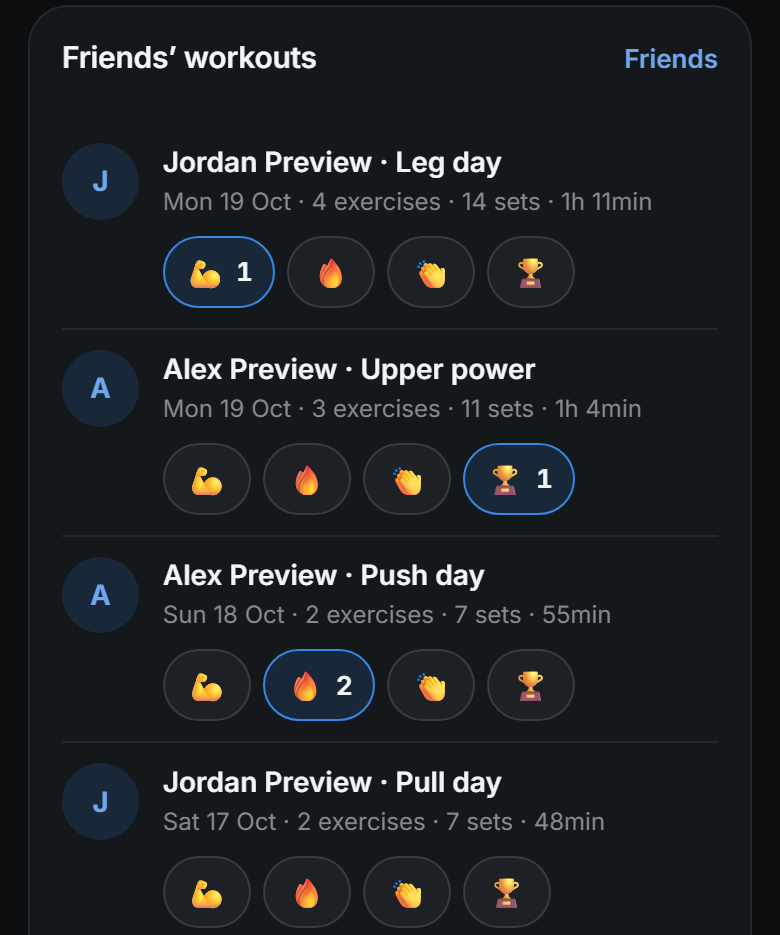
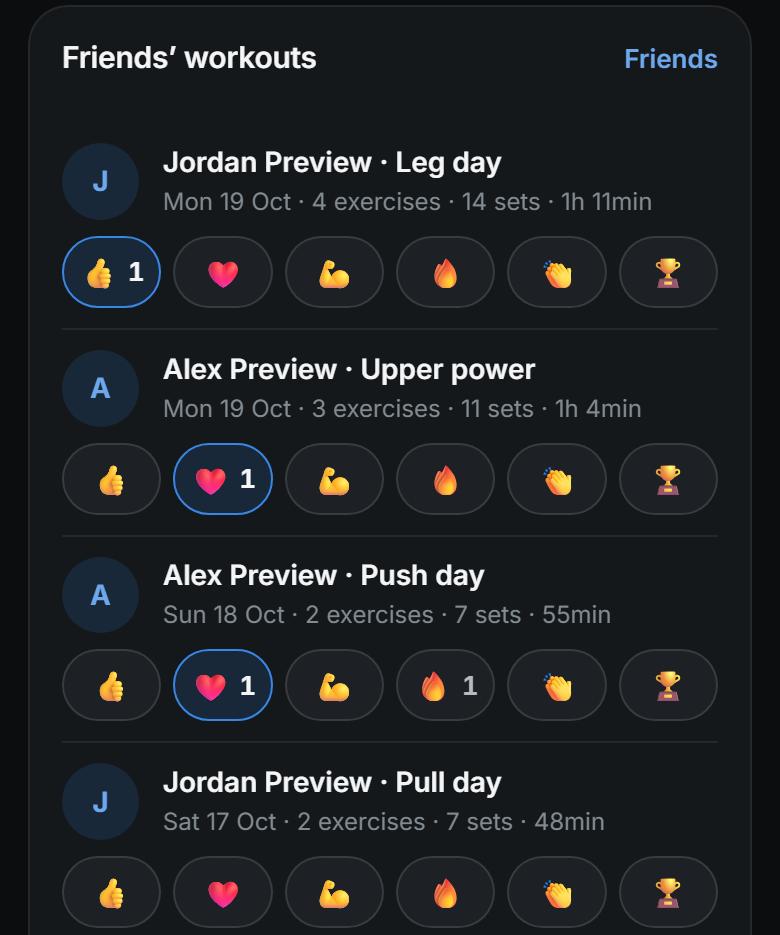
Add like and love workout reactions
Members can now react with 👍 Like and ❤ Love alongside the existing four.
The unreleased 0038 migration and model allow the new values, and the
reaction bar becomes an even six-column row that fits on a phone.

diff --git a/frontend/src/FriendFeed.test.tsx b/frontend/src/FriendFeed.test.tsx
@@ -86,6 +86,27 @@ it('reacts to a friend workout, switches reaction and removes it', async () => {
   expect(remove).toHaveBeenCalledWith('w1');
   expect(button('Fire, 2').getAttribute('aria-pressed')).toBe('false');
 
+  // Like and love lead the six reactions.
+  const group = host.querySelector('.friend-feed-reactions')!;
+  expect([...group.querySelectorAll('button')].map((item) => item.textContent)).toEqual([
+    '👍',
+    '❤',
+    '💪',
+    '🔥2',
+    '👏',
+    '🏆',
+  ]);
+  react.mockResolvedValueOnce({
+    counts: [
+      { reaction: 'love', count: 1 },
+      { reaction: 'fire', count: 2 },
+    ],
+    yours: 'love',
+  });
+  await act(async () => button('Love').click());
+  expect(react).toHaveBeenLastCalledWith('w1', 'love');
+  expect(button('Love, 1').getAttribute('aria-pressed')).toBe('true');
+
   await act(async () => host.querySelector<HTMLButtonElement>('.friend-feed-workout')!.click());
   expect(openFriend).toHaveBeenCalledWith(item.friend);
 });

diff --git a/frontend/src/sharing.css b/frontend/src/sharing.css
@@ -703,23 +703,24 @@
   overflow-wrap: anywhere;
 }
 
+/* Six equal buttons across the card, so a phone fits every reaction on one row. */
 .friend-feed-reactions {
-  display: flex;
-  flex-wrap: wrap;
+  display: grid;
+  grid-template-columns: repeat(6, minmax(0, 1fr));
   gap: 0.375rem;
-  margin: 0.5rem 0 0 3.15rem;
+  margin-top: 0.5rem;
 }
 
 .friend-feed-reactions button {
-  min-width: 2.75rem;
+  min-width: 0;
   min-height: 2.25rem;
   display: inline-flex;
   align-items: center;
   justify-content: center;
-  gap: 0.3125rem;
+  gap: 0.25rem;
   border: 1px solid var(--p-line-strong);
   border-radius: 999px;
-  padding: 0 0.625rem;
+  padding: 0 0.25rem;
   background: var(--p-surface-2);
   color: var(--p-ink-2);
   font: inherit;

diff --git a/frontend/src/friendFeedData.ts b/frontend/src/friendFeedData.ts
@@ -3,6 +3,8 @@ import { formatMinutesDuration } from './utils';
 
 export const REACTIONS: ReadonlyArray<{ kind: WorkoutReactionKind; emoji: string; label: string }> =
   [
+    { kind: 'like', emoji: '👍', label: 'Like' },
+    { kind: 'love', emoji: '❤', label: 'Love' },
     { kind: 'strong', emoji: '💪', label: 'Strong' },
     { kind: 'fire', emoji: '🔥', label: 'Fire' },
     { kind: 'clap', emoji: '👏', label: 'Applause' },

diff --git a/frontend/src/types.ts b/frontend/src/types.ts
@@ -719,7 +719,7 @@ export interface SharingConnections {
   followers: SharingConnection[];
 }
 
-export type WorkoutReactionKind = 'strong' | 'fire' | 'clap' | 'trophy';
+export type WorkoutReactionKind = 'like' | 'love' | 'strong' | 'fire' | 'clap' | 'trophy';
 
 export interface WorkoutReactions {
   counts: Array<{ reaction: WorkoutReactionKind; count: number }>;

diff --git a/backend/tests/test_workout_reactions.py b/backend/tests/test_workout_reactions.py
@@ -119,6 +119,14 @@ def test_reactions_are_one_per_member_and_notify_the_owner(client, other_client,
     client.post(dismiss, json={"since": stale["since"]})
     assert len(client.get("/api/sharing/notifications").json()["reactions"]) == 2
 
+    # Like and love are reactions too, listed before the others.
+    other_client.put(url, json={"reaction": "love"})
+    assert third_client.put(url, json={"reaction": "like"}).json() == {
+        "counts": [{"reaction": "like", "count": 1}, {"reaction": "love", "count": 1}],
+        "yours": "like",
+    }
+    third_client.put(url, json={"reaction": "fire"})
+
     assert other_client.delete(url).json() == {
         "counts": [{"reaction": "fire", "count": 1}],
         "yours": None,

diff --git a/backend/app/models.py b/backend/app/models.py
@@ -190,7 +190,7 @@ class ProfileFollow(Base):
     notification_seen: Mapped[bool] = mapped_column(Boolean, default=False, server_default="0")
 
 
-WORKOUT_REACTIONS = ("strong", "fire", "clap", "trophy")
+WORKOUT_REACTIONS = ("like", "love", "strong", "fire", "clap", "trophy")
 
 
 class WorkoutReaction(Base):
@@ -199,7 +199,8 @@ class WorkoutReaction(Base):
     __tablename__ = "workout_reactions"
     __table_args__ = (
         CheckConstraint(
-            "reaction IN ('strong', 'fire', 'clap', 'trophy')", name="workout_reaction_known"
+            "reaction IN ('like', 'love', 'strong', 'fire', 'clap', 'trophy')",
+            name="workout_reaction_known",
         ),
     )
 

diff --git a/backend/migrations/versions/0038_workout_reactions.py b/backend/migrations/versions/0038_workout_reactions.py
@@ -30,7 +30,8 @@ def upgrade() -> None:
         ),
         sa.Column("notification_seen", sa.Boolean(), nullable=False, server_default="0"),
         sa.CheckConstraint(
-            "reaction IN ('strong', 'fire', 'clap', 'trophy')", name="workout_reaction_known"
+            "reaction IN ('like', 'love', 'strong', 'fire', 'clap', 'trophy')",
+            name="workout_reaction_known",
         ),
     )
     op.create_index("ix_workout_reactions_user_id", "workout_reactions", ["user_id"])

diff --git a/backend/app/sharing.py b/backend/app/sharing.py
@@ -207,7 +207,7 @@ class ConnectionsRead(BaseModel):
     followers: list[ConnectionRead]
 
 
-Reaction = Literal["strong", "fire", "clap", "trophy"]
+Reaction = Literal["like", "love", "strong", "fire", "clap", "trophy"]
 
 
 class ReactionChoice(BaseModel):

diff --git a/README.md b/README.md
@@ -78,7 +78,7 @@ configures Google once for the installation; users do not need API keys or crede
 
 Sign in with a username and password, personalise your name and profile photo, and keep your profile **Private** or choose **Friends only** or **Public** sharing within the app's sharing community.
 
-Shared profiles include workouts and your profile photo. You choose separately whether to share machine photos, body measurements, goals, cardio and notes. Friends-only profiles require approval before followers can see your training. **Friends’ workouts** on Home shows the newest workouts from people you follow; react with 💪, 🔥, 👏 or 🏆, and reactions to your own workouts appear under the notification bell. Search shared accounts by display name, username or the account UUID shown on Profile. Shared profiles do not display usernames or uploaded videos.
+Shared profiles include workouts and your profile photo. You choose separately whether to share machine photos, body measurements, goals, cardio and notes. Friends-only profiles require approval before followers can see your training. **Friends’ workouts** on Home shows the newest workouts from people you follow; react with 👍, ❤, 💪, 🔥, 👏 or 🏆, and reactions to your own workouts appear under the notification bell. Search shared accounts by display name, username or the account UUID shown on Profile. Shared profiles do not display usernames or uploaded videos.
 
 Administrators can manage accounts, registration, video access and private app feedback from the admin console.
 

diff --git a/docs/RELEASE-NOTES.md b/docs/RELEASE-NOTES.md
@@ -30,7 +30,7 @@
 
 *See a sample profile shows the names you've typed on a profile card.*
 
-![Home's Friends' workouts section listing recent workouts from Jordan Preview and Alex Preview, each with 💪 🔥 👏 🏆 reaction buttons and the chosen reactions highlighted](screenshots/releases/0.8.1-friends-workouts.png)
+![Home's Friends' workouts section listing recent workouts from Jordan Preview and Alex Preview, each with 👍 ❤ 💪 🔥 👏 🏆 reaction buttons and the chosen reactions highlighted](screenshots/releases/0.8.1-friends-workouts.png)
 
 *Friends' workouts on Home: react to the newest workouts from people you follow.*
 
@@ -54,7 +54,7 @@
   username typed so far, or **Sam Sample** until they're filled in. The workouts, cardio and PRs
   are examples, and a key shows where each name appears.
 - **Home** has a **Friends' workouts** section showing the five newest workouts across everyone
-  you follow. React with 💪, 🔥, 👏 or 🏆; tapping your reaction again removes it, and choosing
+  you follow. React with 👍, ❤, 💪, 🔥, 👏 or 🏆; tapping your reaction again removes it, and choosing
   another replaces it. Tap a workout to open that friend's profile. Rearrange or hide the section
   with the other Home cards.
 - Reactions to your workouts appear under the **Notifications** bell with who reacted and to which
